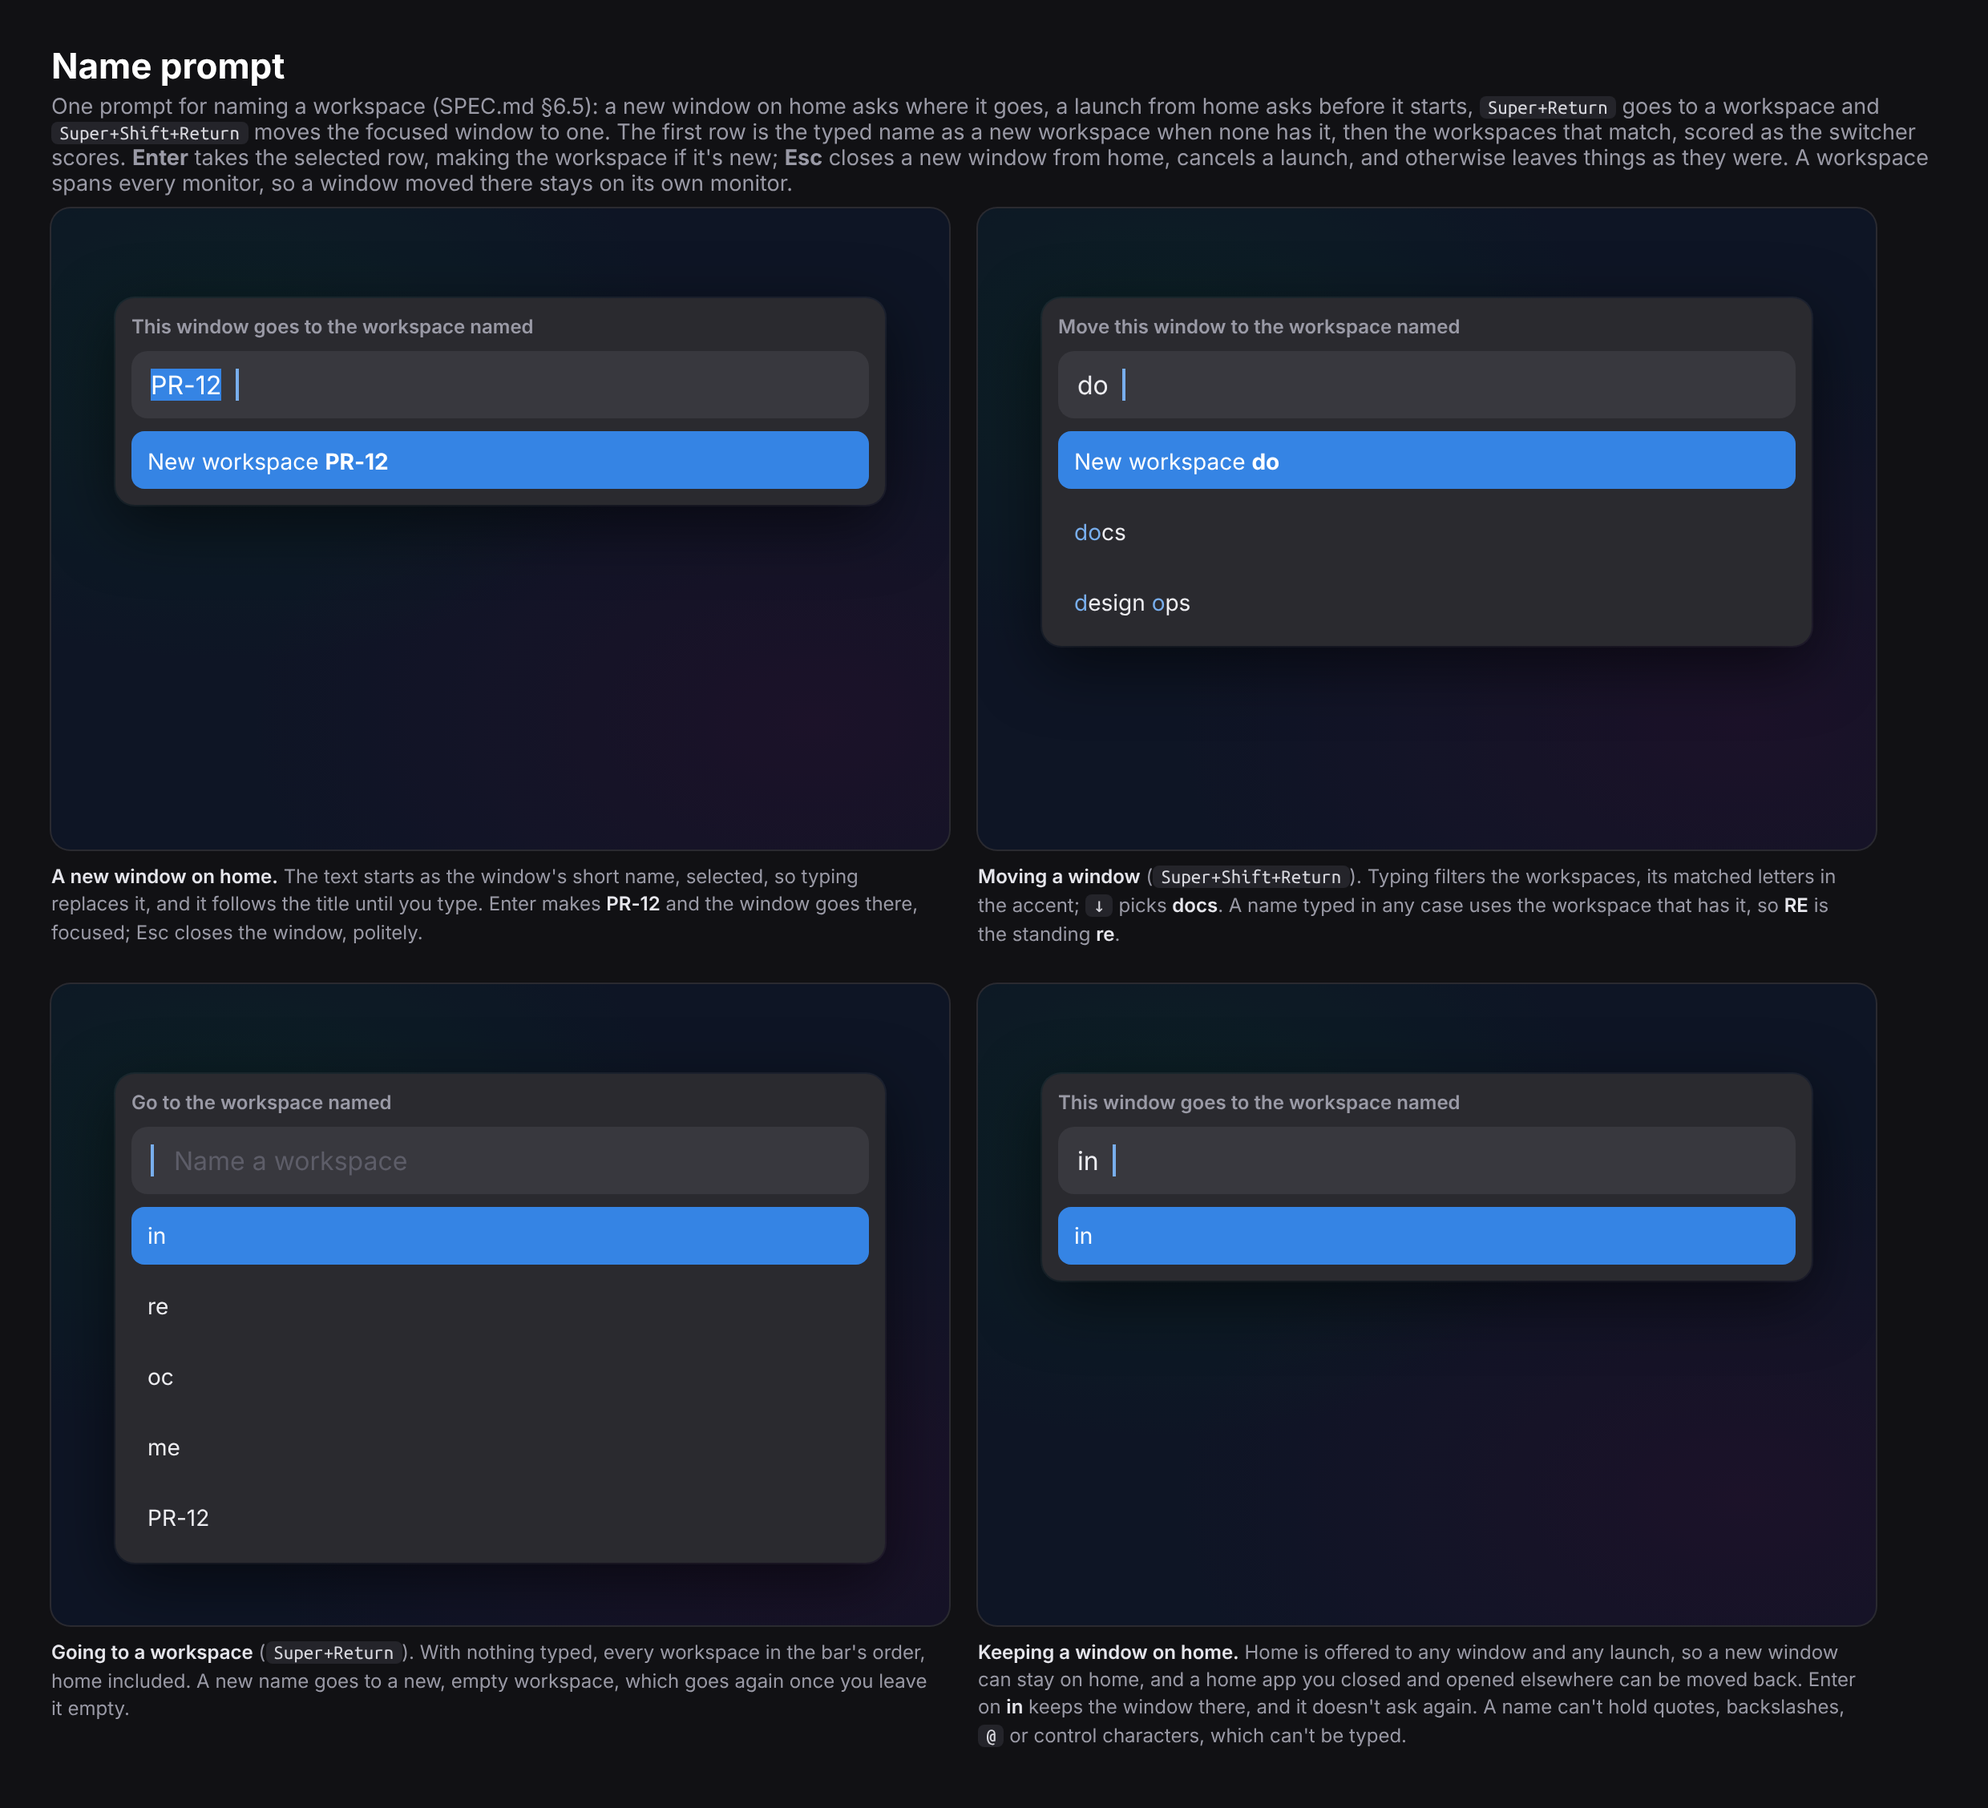
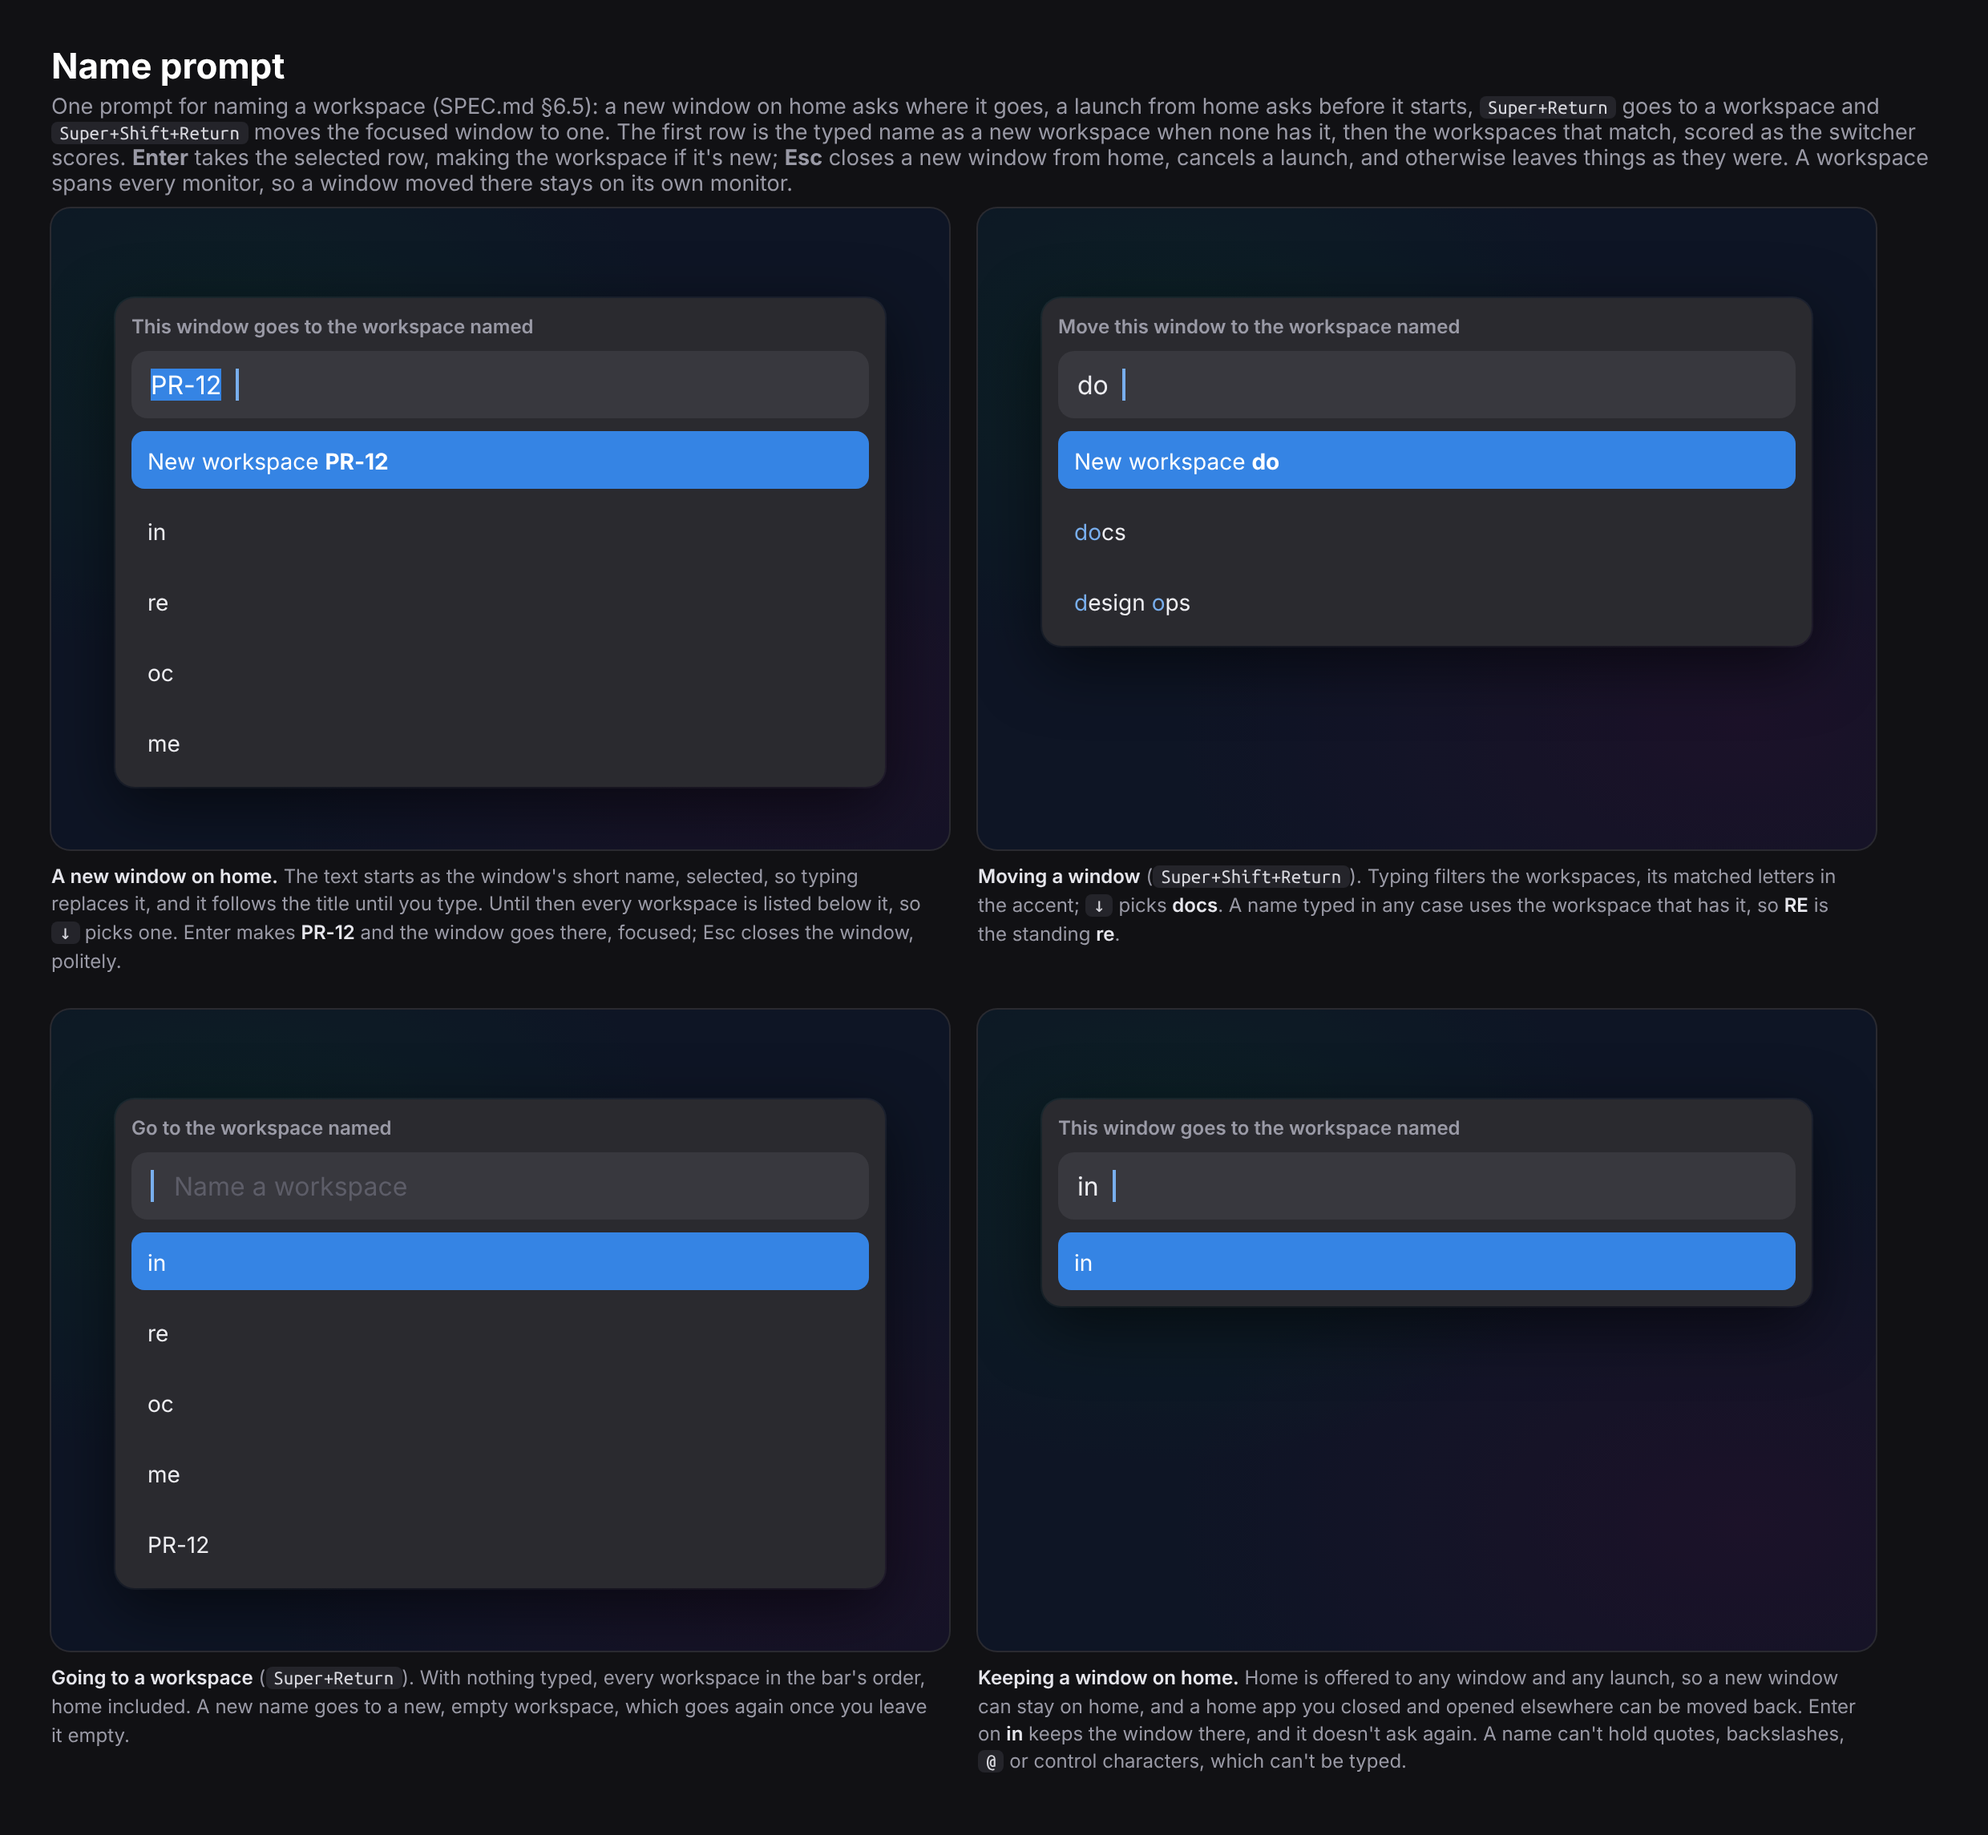
List every workspace under the name prompt's suggested name
Until you type, the window's short name in the name prompt (a new
window on home, Super+Shift+Return) no longer filters the rows: it comes
first, as a new name or the workspace that has it, and every workspace
follows in the bar's order, so Down reaches any of them.

Claude-Session: https://claude.ai/code/session_016zevahbxsjVpt3cQoXq6TU

diff --git a/docs/mocks/prompt.html b/docs/mocks/prompt.html
@@ -44,9 +44,13 @@
     <div class="head">This window goes to the workspace named</div>
     <div class="field"><span class="sel">PR-12</span><span class="caret"></span></div>
     <div class="rowp cur">New workspace&nbsp;<b>PR-12</b></div>
+    <div class="rowp">in</div>
+    <div class="rowp">re</div>
+    <div class="rowp">oc</div>
+    <div class="rowp">me</div>
   </div>
 </div>
-<div class="cap" style="max-width:550px"><b>A new window on home.</b> The text starts as the window's short name, selected, so typing replaces it, and it follows the title until you type. Enter makes <b>PR-12</b> and the window goes there, focused; Esc closes the window, politely.</div>
+<div class="cap" style="max-width:550px"><b>A new window on home.</b> The text starts as the window's short name, selected, so typing replaces it, and it follows the title until you type. Until then every workspace is listed below it, so <kbd>↓</kbd> picks one. Enter makes <b>PR-12</b> and the window goes there, focused; Esc closes the window, politely.</div>
 </div>
 
 <div>

diff --git a/shell/NamePrompt.qml b/shell/NamePrompt.qml
@@ -16,7 +16,8 @@ import "lib/workspaces.mjs" as Ws
 //     With no window, as for Super+Return or a launch, it starts empty.
 //   - The rows are the typed name, when it's new, then the workspaces that
 //     match it, home among them: any window may go there, and any
-//     launch open there.
+//     launch open there. Until you type, the window's short name is
+//     followed by every workspace, not just those that match it.
 //   - Enter goes to the selected row's workspace, made if it's new; Esc is
 //     PromptData.cancel's.
 PanelWindow {
@@ -46,7 +47,8 @@ PanelWindow {
     })), WorkspacesData.standing).map(w => w.name)
     readonly property var rows: Names.promptRows({
         names: root.names,
-        typed: field.text
+        typed: field.text,
+        suggested: !root.edited
     })
     readonly property string refusal: root.rows.length > 0 ? "" : Names.promptChoice({
         rows: root.rows,

diff --git a/SPEC.md b/SPEC.md
@@ -1207,6 +1207,9 @@ in how long they last and what stays visible:
   included) that match it, scored as the launcher scores. The top row is
   selected, so Enter on a new name makes it, and `↓` picks an existing one.
   A name that's an existing one, in any case, puts that one first instead.
+  Until you type, the window's short name isn't a filter: it comes first,
+  and every workspace follows in the bar's order, so `↓` reaches any of
+  them.
 - **Enter** makes the workspace, or uses the one already of that name,
   moves the window there, and focus follows. Enter on home keeps the
   window there, and it doesn't ask again.
